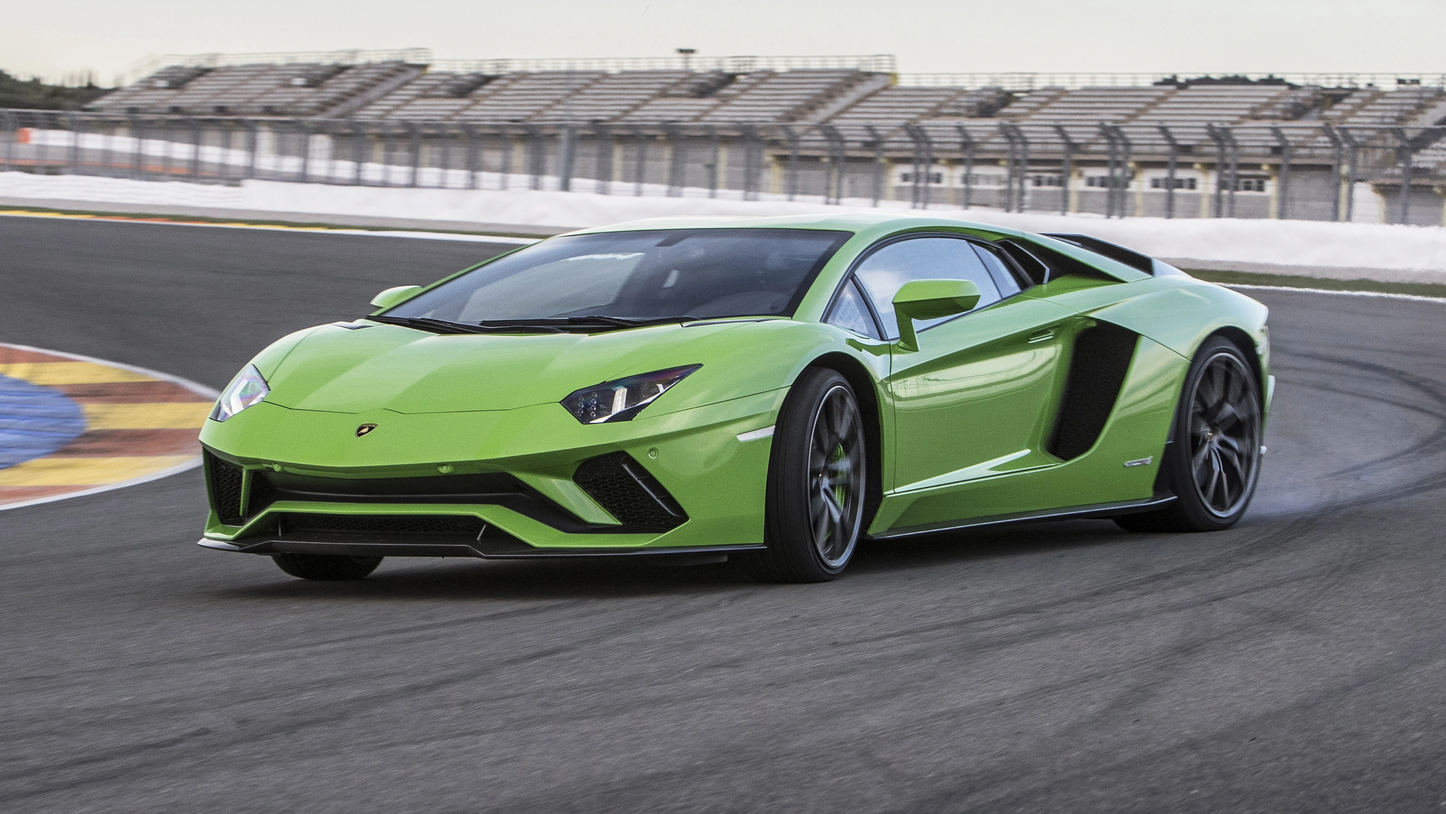
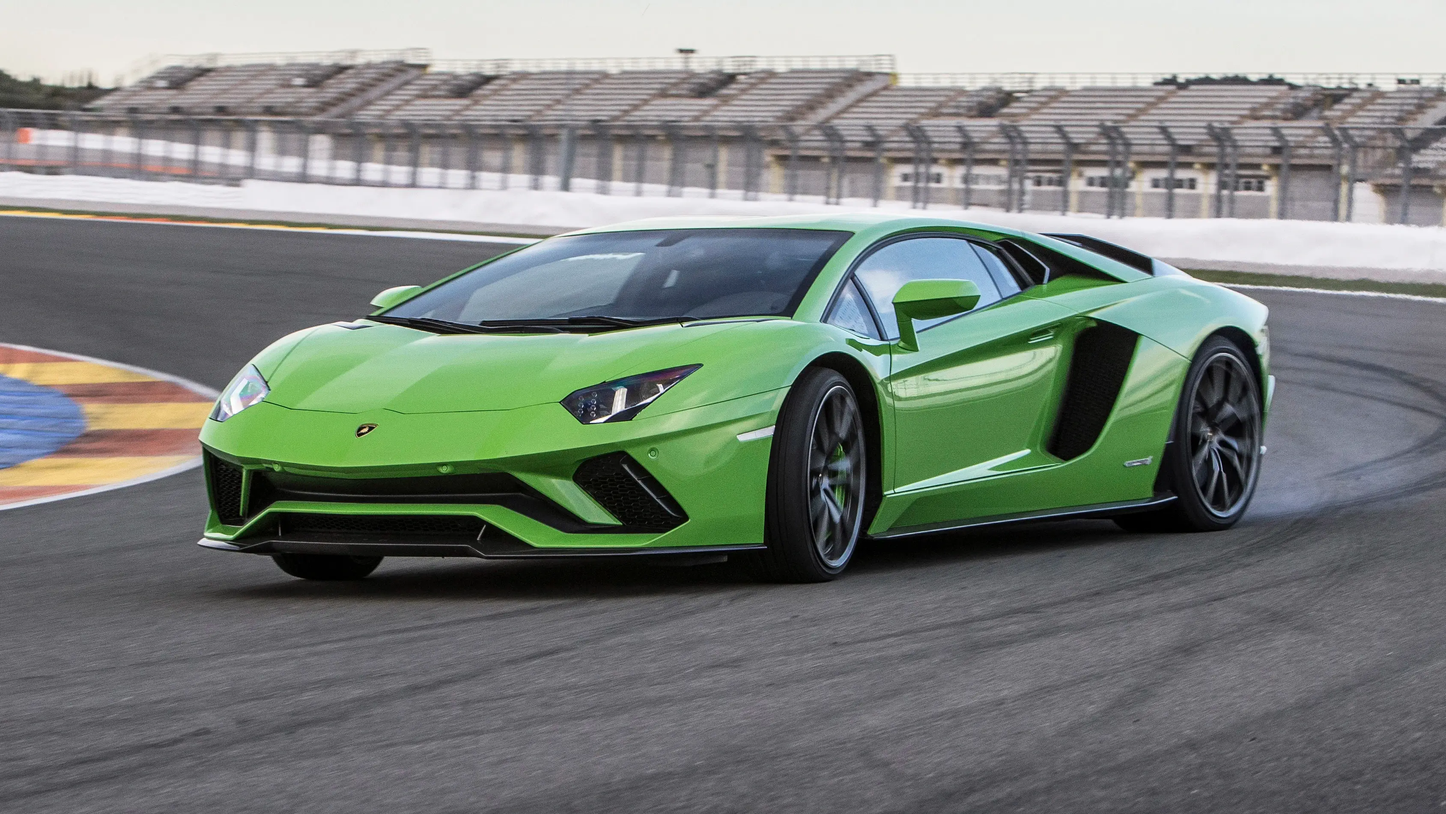
Fix Properly size images for desktop

diff --git a/src/assets/items/mainPageItems.ts b/src/assets/items/mainPageItems.ts
@@ -11,7 +11,7 @@ export const infoSectionItems = {
     title: "Exceptional Service and Expertise",
     description:
       "Our team of experts is dedicated to providing you with the best sports car shopping experience. We take pride in offering exceptional customer service and professional guidance at every stage of the car buying process. With our extensive network of sales locations across Europe, we offer a wide range of high-performance vehicles to suit your preferences.",
-    img: "./dealership.jpg",
+    img: "./dealership.webp",
     alt: "Modern and elegant car dealership with large windows showcasing a range of high-performance vehicles.",
     button: "About Us",
     buttonHref: "/about",
